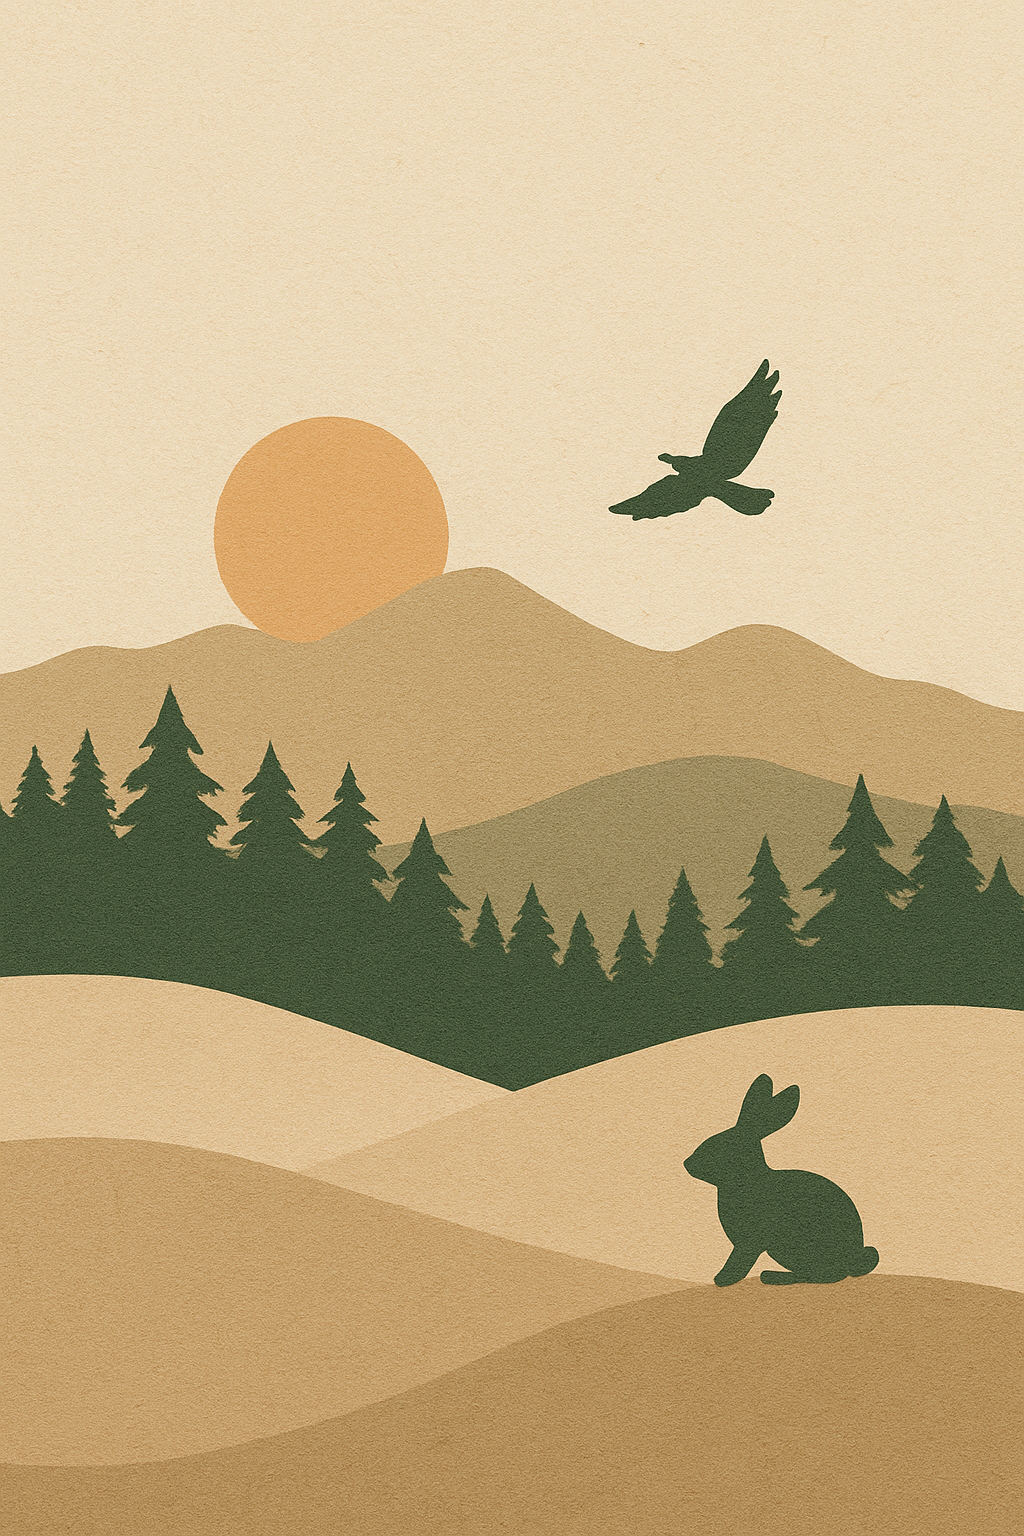
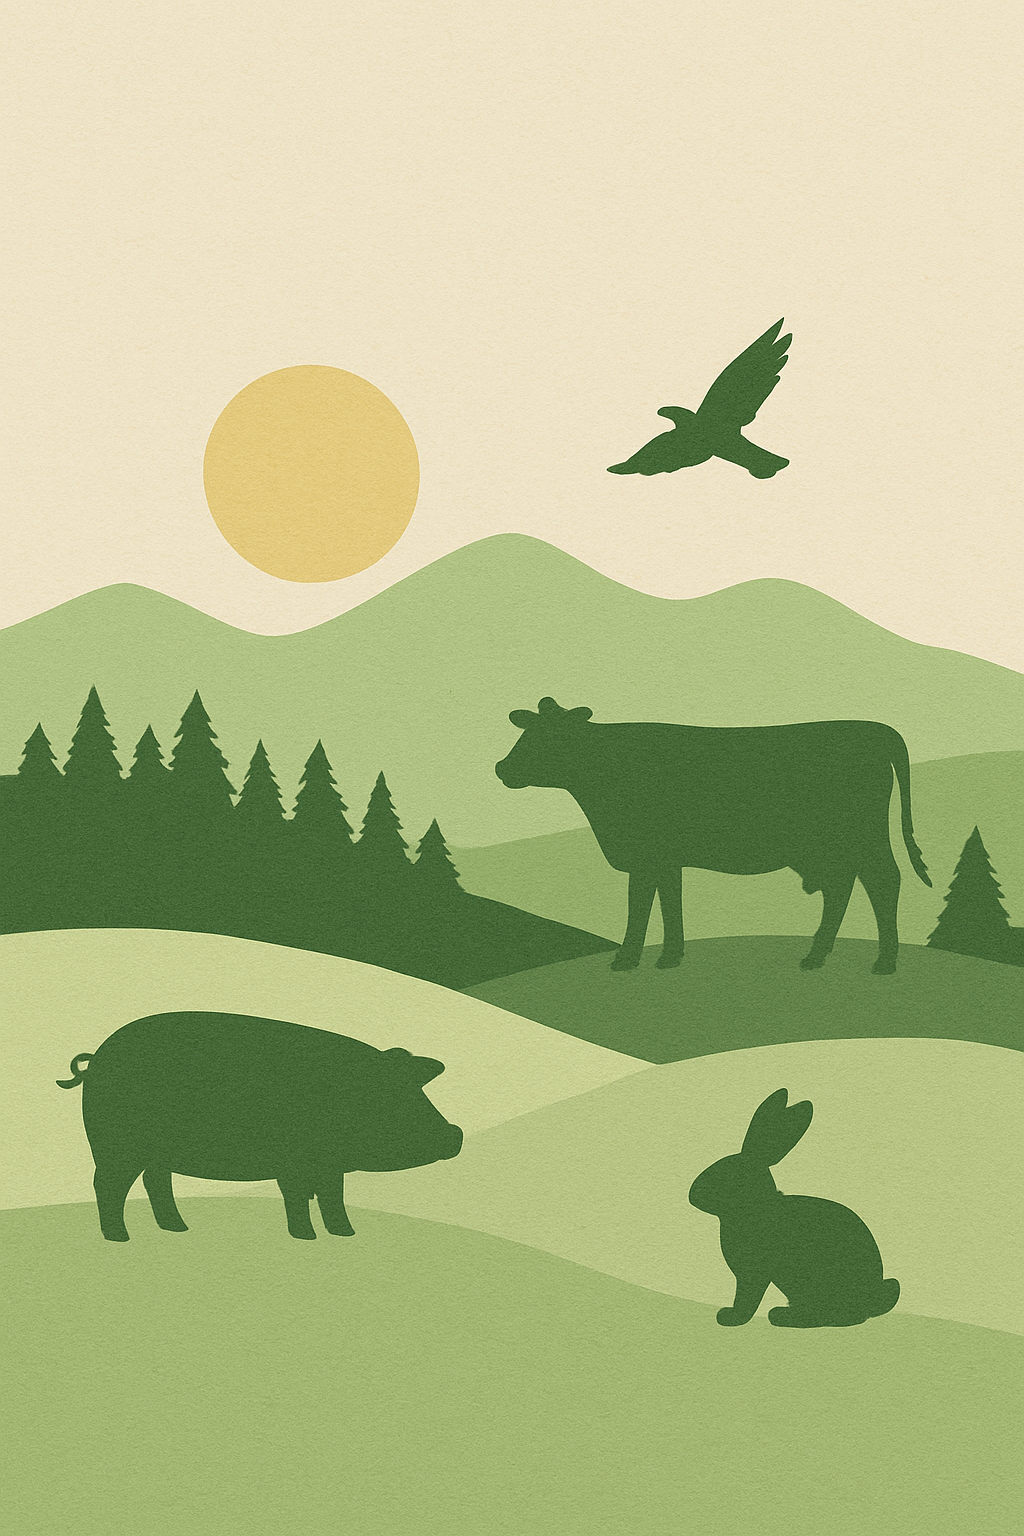
fix(background): Changing background

diff --git a/app/page.tsx b/app/page.tsx
@@ -137,7 +137,7 @@ export default function HomePage() {
           filter: "opacity(0.5)",
         }}
       />
-      <header className="border-b bg-card/50 backdrop-blur-sm sticky top-0 z-50">
+      {/* <header className="border-b bg-card/50 backdrop-blur-sm sticky top-0 z-50">
         <div className="container mx-auto px-4 py-4">
           <div className="flex items-center gap-2">
             <Leaf className="h-8 w-8 text-primary" />
@@ -146,7 +146,7 @@ export default function HomePage() {
             </h1>
           </div>
         </div>
-      </header>
+      </header> */}
 
       <section className="flex-1 flex flex-col items-center justify-center px-4">
         <h2 className="text-2xl md:text-3xl font-bold text-balance mb-8 text-center mt-8">
@@ -166,7 +166,7 @@ export default function HomePage() {
                     key={link.href}
                     href={link.href}
                     target="_blank"
-                    className="flex items-center gap-3 px-6 py-4 rounded-lg border bg-card hover:bg-primary/10 transition font-semibold text-lg"
+                    className="flex items-center gap-3 px-6 py-4 rounded-lg border bg-card/70 hover:bg-primary/10 transition font-semibold text-lg"
                   >
                     <link.icon className="h-5 w-5 text-primary" size={30} />
                     {link.label}
